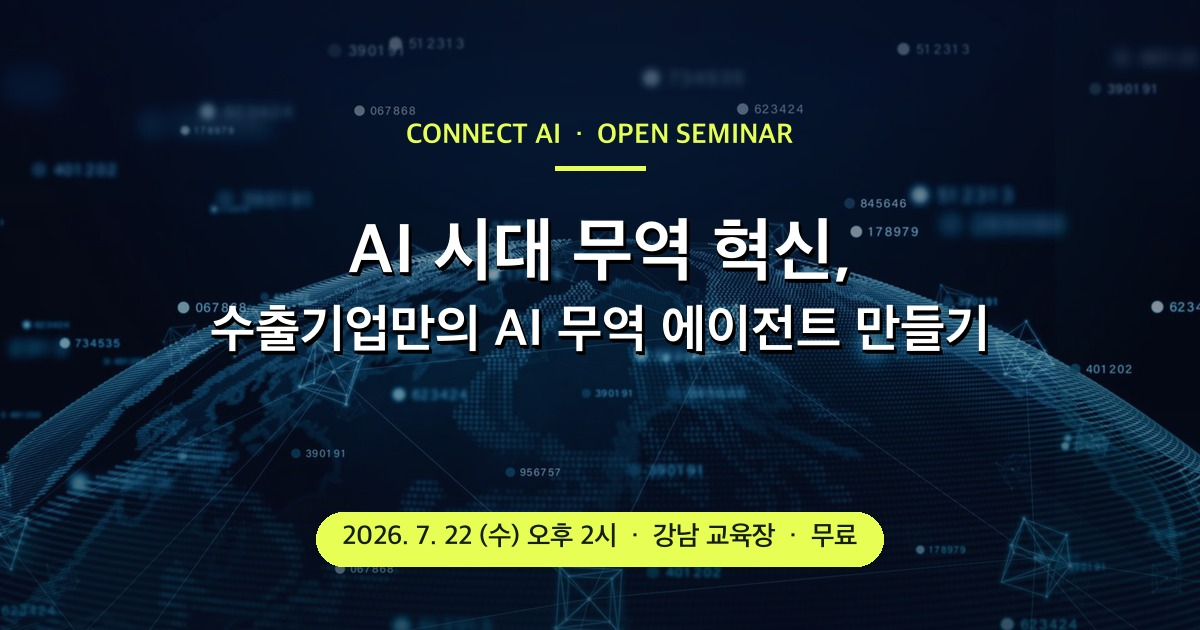
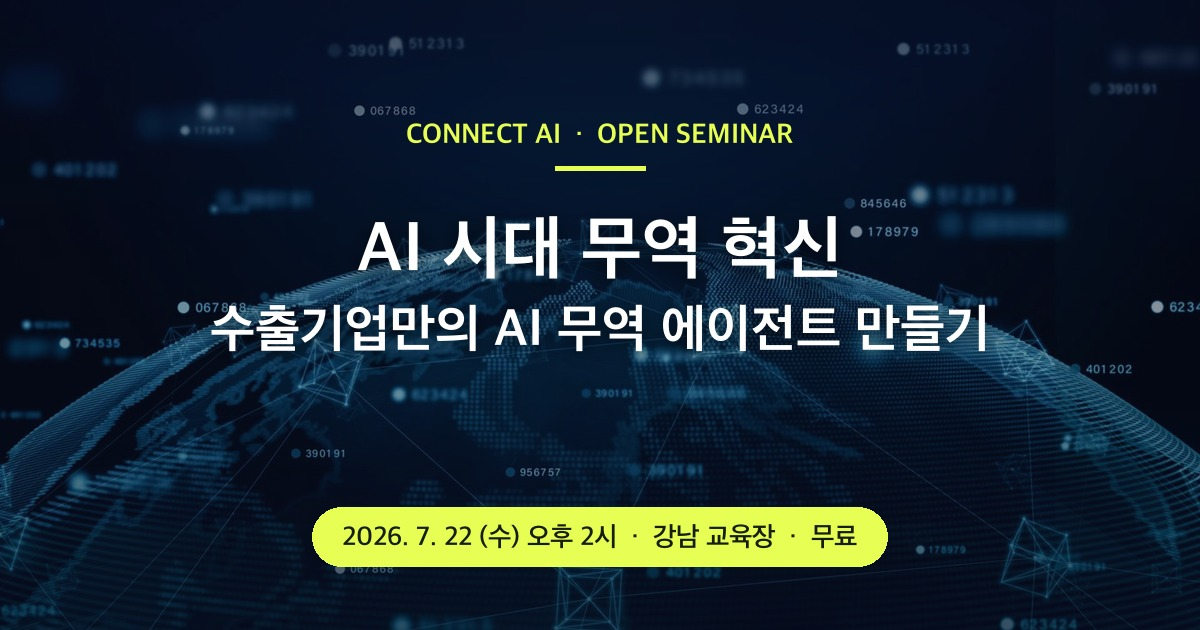
세미나 OG 카드 다듬기: 소프트 그림자, 쉼표 제거, 필 텍스트 정중앙 + 캐시버스터 v3

Changed region(s): [[0.2775, 0.3317, 0.7092, 0.4524], [0.1542, 0.4825, 0.8325, 0.573], [0.2467, 0.7841, 0.74, 0.9048]]

diff --git a/mori-seminar-academy-2026-07-02.html b/mori-seminar-academy-2026-07-02.html
@@ -2,7 +2,7 @@
 <html lang="ko">
 <head>
 <meta charset="UTF-8" /><meta name="viewport" content="width=device-width, initial-scale=1.0" />
-<title>AI 시대 무역 혁신, 수출기업만의 AI 무역 에이전트 만들기 — CONNECT AI 아카데미</title><meta property="og:type" content="website"><meta property="og:site_name" content="MORI Stories"><meta property="og:title" content="AI 시대 무역 혁신 — AI 무역 에이전트 만들기"><meta property="og:description" content="수출기업만의 AI 무역 에이전트 만들기 · 무료 오픈 세미나"><meta property="og:image" content="https://connectai-biz.github.io/mori-stories-preview/assets/og-seminar.jpg"><meta property="og:url" content="https://connectai-biz.github.io/mori-stories-preview/mori-seminar-academy-2026-07-02.html?og=v2"><meta name="twitter:card" content="summary_large_image"><meta name="twitter:title" content="AI 시대 무역 혁신 — AI 무역 에이전트 만들기"><meta name="twitter:description" content="수출기업만의 AI 무역 에이전트 만들기 · 무료 오픈 세미나"><meta name="twitter:image" content="https://connectai-biz.github.io/mori-stories-preview/assets/og-seminar.jpg">
+<title>AI 시대 무역 혁신, 수출기업만의 AI 무역 에이전트 만들기 — CONNECT AI 아카데미</title><meta property="og:type" content="website"><meta property="og:site_name" content="MORI Stories"><meta property="og:title" content="AI 시대 무역 혁신 — AI 무역 에이전트 만들기"><meta property="og:description" content="수출기업만의 AI 무역 에이전트 만들기 · 무료 오픈 세미나"><meta property="og:image" content="https://connectai-biz.github.io/mori-stories-preview/assets/og-seminar.jpg"><meta property="og:url" content="https://connectai-biz.github.io/mori-stories-preview/mori-seminar-academy-2026-07-02.html?og=v3"><meta name="twitter:card" content="summary_large_image"><meta name="twitter:title" content="AI 시대 무역 혁신 — AI 무역 에이전트 만들기"><meta name="twitter:description" content="수출기업만의 AI 무역 에이전트 만들기 · 무료 오픈 세미나"><meta name="twitter:image" content="https://connectai-biz.github.io/mori-stories-preview/assets/og-seminar.jpg">
 <style>
 :root{--bg-white:#FAFAF5;--bg-section:#F2F3E8;--border-warm:#E8E6DC;--border-default:#E5E5E5;--ink:#0F0F1E;--ink-fg:#E8E6DC;--text-primary:#111;--gray-strong:#4F5F66;--gray:#9A9A8E;--lime:#E7FE55;--lime-ink:#4A5A00;--info:#3B82F6;--trust:#2E9E3C;--sky:#7FE7E5;
 --serif:"Iowan Old Style","Apple SD Gothic Neo",Georgia,"Nanum Myeongjo",serif;--sans:"Pretendard","Apple SD Gothic Neo",system-ui,sans-serif;}